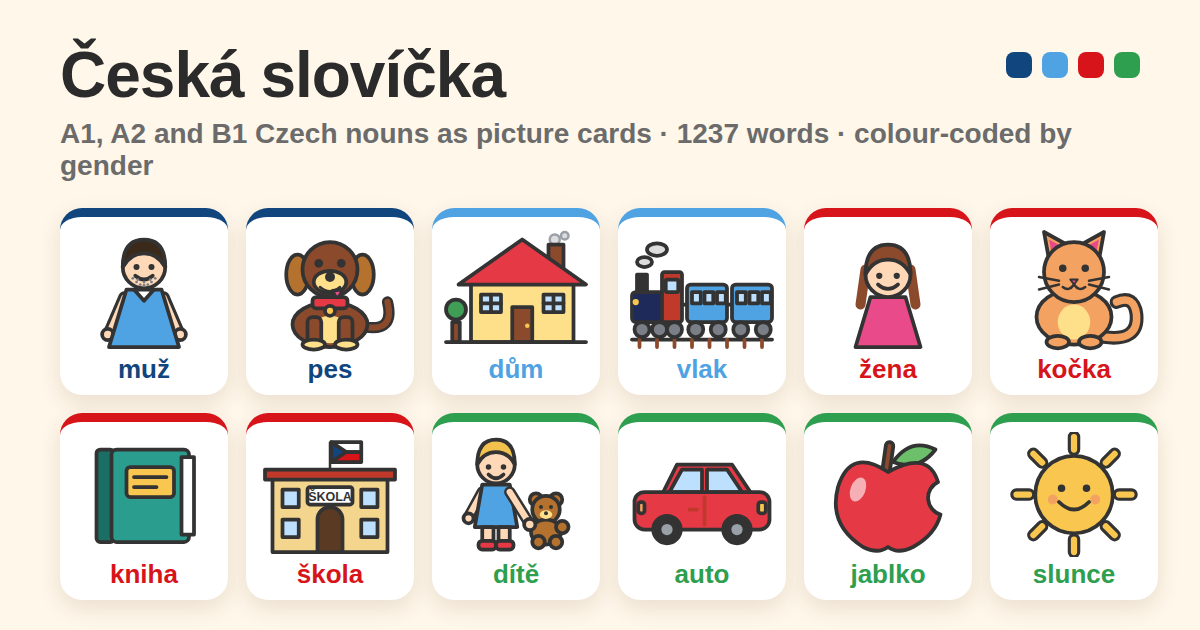
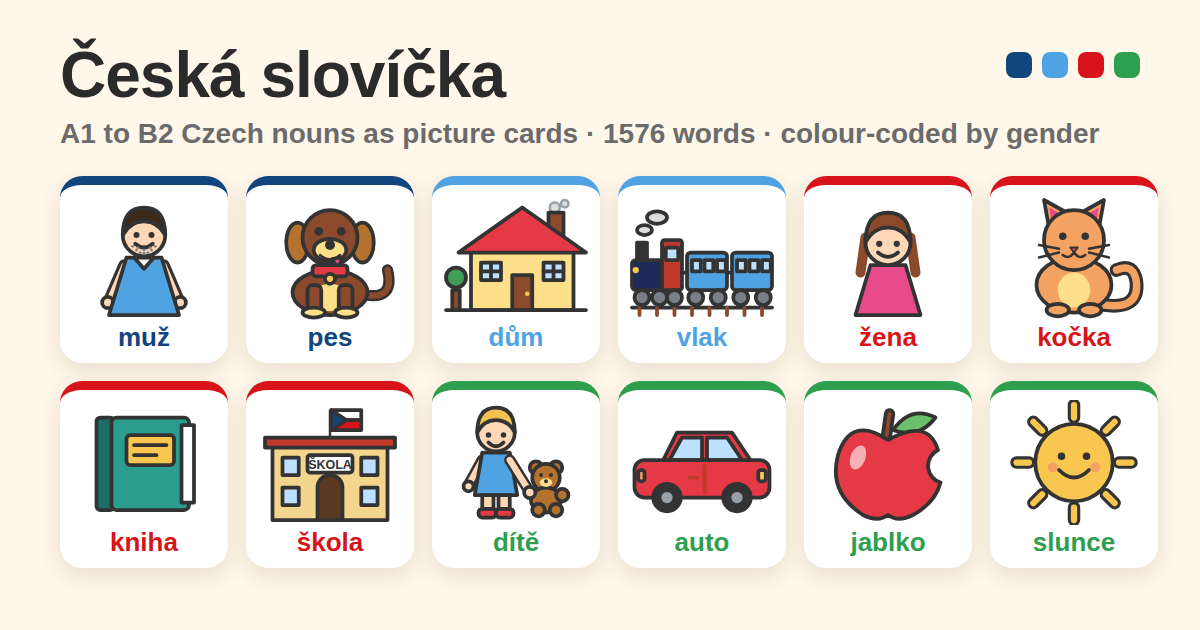
Link the B2 decks in behind the level filter

diff --git a/index.html b/index.html
@@ -4,7 +4,7 @@
 <meta charset="utf-8">
 <meta name="viewport" content="width=device-width, initial-scale=1">
 <title>Česká slovíčka – Czech flash cards</title>
-<meta name="description" content="A1, A2 and B1 Czech nouns as child-friendly picture flash cards, Czech to English, colour-coded by gender (Ma, Mi, F, N).">
+<meta name="description" content="A1 to B2 Czech nouns as child-friendly picture flash cards, Czech to English, colour-coded by gender (Ma, Mi, F, N).">
 <link rel="canonical" href="https://grammar.ilearnczech.com/nouns/">
 <link rel="icon" href="favicon.svg" type="image/svg+xml">
 <meta name="theme-color" content="#fff7ea">
@@ -13,14 +13,14 @@
 <meta property="og:locale" content="en">
 <meta property="og:url" content="https://grammar.ilearnczech.com/nouns/">
 <meta property="og:title" content="Česká slovíčka – Czech noun flash cards">
-<meta property="og:description" content="A1, A2 and B1 Czech nouns as child-friendly picture flash cards, Czech to English, colour-coded by gender (Ma, Mi, F, N).">
+<meta property="og:description" content="A1 to B2 Czech nouns as child-friendly picture flash cards, Czech to English, colour-coded by gender (Ma, Mi, F, N).">
 <meta property="og:image" content="https://grammar.ilearnczech.com/nouns/og.png">
 <meta property="og:image:width" content="1200">
 <meta property="og:image:height" content="630">
 <meta property="og:image:alt" content="Twelve Czech picture cards: muž, pes, dům, vlak, žena, kočka, kniha, škola, dítě, auto, jablko, slunce">
 <meta name="twitter:card" content="summary_large_image">
 <meta name="twitter:title" content="Česká slovíčka – Czech noun flash cards">
-<meta name="twitter:description" content="A1, A2 and B1 Czech nouns as child-friendly picture flash cards, colour-coded by gender.">
+<meta name="twitter:description" content="A1 to B2 Czech nouns as child-friendly picture flash cards, colour-coded by gender.">
 <meta name="twitter:image" content="https://grammar.ilearnczech.com/nouns/og.png">
 <style>
   :root {
@@ -170,6 +170,7 @@
       <button data-level="a1" aria-pressed="true">A1</button>
       <button data-level="a2" aria-pressed="false">A2</button>
       <button data-level="b1" aria-pressed="false">B1</button>
+      <button data-level="b2" aria-pressed="false">B2</button>
       <button data-level="all" aria-pressed="false">Vše</button>
     </span>
     <button data-gender="all" aria-pressed="true">Vše</button>
@@ -187,7 +188,7 @@
 </header>
 <main id="deck"></main>
 <footer>
-  <span id="count"></span> nouns for A1, A2 and B1 Czech &middot; colours follow the textbook convention (Ma dark blue, Mi light blue, F red, N green) &middot; pictures are inline SVG.<br>
+  <span id="count"></span> nouns for A1, A2, B1 and B2 Czech &middot; colours follow the textbook convention (Ma dark blue, Mi light blue, F red, N green) &middot; pictures are inline SVG.<br>
   Part of the <a href="https://ilearnczech.com">iLearnCzech</a> family &middot; <a href="https://grammar.ilearnczech.com">Grammar reference</a> &middot; <a href="https://github.com/czech-grammar/nouns">GitHub</a>
 </footer>
 
@@ -266,7 +267,7 @@
   // e.g. ?gender=f&mode=hide-en#t-food
   const MODES = ['both', 'hide-en', 'hide-cs'];
   const GENDERS = ['all', 'ma', 'mi', 'f', 'n'];
-  const LEVELS = ['a1', 'a2', 'b1', 'all'];
+  const LEVELS = ['a1', 'a2', 'b1', 'b2', 'all'];
   const params = new URLSearchParams(location.search);
   let mode = MODES.includes(params.get('mode')) ? params.get('mode') : 'both';
   let gender = GENDERS.includes(params.get('gender')) ? params.get('gender') : 'all';
@@ -276,6 +277,7 @@
   const EXTRA_FILES = {
     a2: ["f-body", "f-clothes", "f-family-a", "f-family-b", "f-food", "f-home", "f-leisure", "f-nature", "f-school-a", "f-school-b", "f-shopping", "f-town", "m-clothes", "m-family-a", "m-home-a", "m-home-b", "m-leisure-people", "m-nature", "m-other", "m-people", "m-school", "m-town", "m-travel-body", "n-home", "n-leisure", "n-travel"],
     b1: ["f-body", "f-home", "f-leisure", "f-nature", "f-school", "f-town", "m-body", "m-home", "m-leisure", "m-nature", "m-people", "m-school", "m-sport", "m-town", "n-body", "n-home", "n-leisure"],
+    b2: ["f-animals", "f-body", "f-family", "f-home", "f-home2", "f-leisure", "f-meals", "f-other", "f-school", "f-travel", "f-travel2", "m-animals", "m-family", "m-family2", "m-home", "m-leisure", "m-leisure2", "m-other", "m-school", "m-shopping", "m-time", "n-family", "n-home", "n-leisure", "n-travel"],
   };
   const loaded = {}, loading = {};
   function loadLevel(lv) {

diff --git a/tools/og.py b/tools/og.py
@@ -22,7 +22,7 @@ page = f'''<!doctype html><meta charset="utf-8"><style>
   svg{{width:150px;height:125px;display:block;margin:0 auto}} b{{display:block;font-size:26px;color:var(--g);margin-top:2px}}
   .dots{{position:absolute;right:60px;top:52px;display:flex;gap:10px}} .dots span{{width:26px;height:26px;border-radius:8px;display:block}}
 </style>
-<div class="head"><h1>Česká slovíčka</h1><p>A1, A2 and B1 Czech nouns as picture cards &middot; {len(by)} words &middot; colour-coded by gender</p></div>
+<div class="head"><h1>Česká slovíčka</h1><p>A1 to B2 Czech nouns as picture cards &middot; {len(by)} words &middot; colour-coded by gender</p></div>
 <div class="dots"><span style="background:#11457e"></span><span style="background:#4fa3e3"></span><span style="background:#d7141a"></span><span style="background:#2e9e4f"></span></div>
 <div class="g">{cards}</div>'''
 hp = os.path.join(OUT, 'og.html'); open(hp, 'w', encoding='utf8').write(page)

diff --git a/README.md b/README.md
@@ -2,10 +2,10 @@
 
 Picture flash cards for A1 Czech nouns, Czech → English, one child-friendly
 inline SVG per word, colour-coded by gender (F red, Ma dark blue, Mi light
-blue, N green, the Czech Step by Step convention). All four genders are covered for A1 and A2, plus the picturable B1 core; the B2 pictures are drawn but not yet linked in. No build step; open `index.html`.
+blue, N green, the Czech Step by Step convention). All four genders are covered for A1 and A2, plus the picturable B1 and B2 cores. No build step; open `index.html`.
 
-- `index.html` – the page: cards grouped by topic, level filter (A1 default, A2, B1, all;
-  the A2 and B1 decks load on demand), gender filter (Ma, Mi, F, N),
+- `index.html` – the page: cards grouped by topic, level filter (A1 default, A2, B1, B2, all;
+  the A2, B1 and B2 decks load on demand), gender filter (Ma, Mi, F, N),
   show/hide Czech or English, tap a card to reveal; cards with an irregular declension (plural-only,
   adjective-declined, indeclinable, irregular, or an odd plural) have a yellow tint,
   cards on a regular pattern with a stem change (dům, domu) a fainter cream, and all
@@ -34,7 +34,7 @@ blue, N green, the Czech Step by Step convention). All four genders are covered 
   same verified list), the curating brief, and `make-prompts.py`, which turns the
   picturable tables of `b2-masculine.md`, `b2-feminine.md`, `b2-neuter.md` into one
   drawing brief per file. B2 decks live in `words/b2/` (140 masculine, 149 feminine,
-  50 neuter) and export to `words-b2.json`; not yet loaded by the page.
+  50 neuter) and export to `words-b2.json`; the page loads them when B2 or Vše is chosen.
 - `STYLE.md` – drawing rules and palette for new pictures.
 - `declension.json` – a declension table (7 cases, singular and plural) for every
   card plus the 14 model words; 891 from the Czech Wiktionary (CC BY-SA, fetched by

diff --git a/STYLE.md b/STYLE.md
@@ -82,7 +82,7 @@ B1 decks live in `words/b1/` with `level: 'B1'` and `official: null` (the offici
 list stops at A2); exported to `words-b1.json`, loaded when B1 or Vše is chosen.
 
 B2 decks live in `words/b2/` with `level: 'B2'` and `official: null`; exported to
-`words-b2.json`, not loaded by the page until linked. Two-sense words carry both
+`words-b2.json`, loaded when B2 or Vše is chosen. Two-sense words carry both
 senses in the picture (main sense large, second small in a corner) and both in
 the gloss, separated by a semicolon.
 
